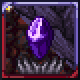
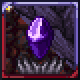
Resprite pylon of night crystal again

diff --git a/Content/Tiles/PylonOfNight.cs b/Content/Tiles/PylonOfNight.cs
@@ -10,7 +10,6 @@ using Terraria.Map;
 using ReLogic.Content;
 using Terraria.Localization;
 using InfectedQualities.Core;
-using InfectedQualities.Content.Extras;
 using InfectedQualities.Content.Items.Placables;
 using InfectedQualities.Content.Tiles.TileEntities;
 
@@ -19,6 +18,7 @@ namespace InfectedQualities.Content.Tiles
     public class PylonOfNight : ModPylon
     {
         private Asset<Texture2D> PylonCrystalTexture { get; set; } = null;
+        private Asset<Texture2D> PylonCrystalHighlightTexture { get; set; } = null;
         private Asset<Texture2D> PylonMapIcon { get; set; } = null;
 
         private static Color PylonColor => new(162, 95, 234);
@@ -44,7 +44,8 @@ namespace InfectedQualities.Content.Tiles
             AddMapEntry(PylonColor, Language.GetText("Mods.InfectedQualities.Items.Placables.PylonOfNightBlock.DisplayName"));
             RegisterItemDrop(ModContent.ItemType<PylonOfNightBlock>());
 
-            PylonCrystalTexture = ModContent.Request<Texture2D>(Texture + "_Crystal");
+            PylonCrystalTexture = ModContent.Request<Texture2D>("InfectedQualities/Content/Extras/Tiles/" + Name + "_Crystal");
+            PylonCrystalHighlightTexture = ModContent.Request<Texture2D>("InfectedQualities/Content/Extras/Tiles/Pylon_CrystalHighlight");
             PylonMapIcon = ModContent.Request<Texture2D>("InfectedQualities/Content/Extras/MapIcons/" + Name + "_MapIcon");
         }
 
@@ -69,7 +70,7 @@ namespace InfectedQualities.Content.Tiles
             b = PylonColor.B / 255f;
         }
 
-        public override void SpecialDraw(int i, int j, SpriteBatch spriteBatch) => DefaultDrawPylonCrystal(spriteBatch, i, j, PylonCrystalTexture, TextureUtilities.PylonCrystalHighlightTexture, new Vector2(0f, -12f), PylonColor * 0.1f, PylonColor, 12, 8);
+        public override void SpecialDraw(int i, int j, SpriteBatch spriteBatch) => DefaultDrawPylonCrystal(spriteBatch, i, j, PylonCrystalTexture, PylonCrystalHighlightTexture, new Vector2(0f, -12f), PylonColor * 0.1f, PylonColor, 12, 8);
 
         public override void DrawMapIcon(ref MapOverlayDrawContext context, ref string mouseOverText, TeleportPylonInfo pylonInfo, bool isNearPylon, Color drawColor, float deselectedScale, float selectedScale)
         {

diff --git a/InfectedQualities.cs b/InfectedQualities.cs
@@ -1,11 +1,9 @@
 using InfectedQualities.Content.Biomes;
-using InfectedQualities.Content.Extras;
 using InfectedQualities.Content.Extras.Tiles;
 using InfectedQualities.Content.Tiles;
 using InfectedQualities.Content.Tiles.Plants;
 using InfectedQualities.Core;
 using Microsoft.Xna.Framework;
-using Microsoft.Xna.Framework.Graphics;
 using System;
 using Terraria;
 using Terraria.ModLoader;
@@ -16,11 +14,6 @@ namespace InfectedQualities
     {
         public override void Load()
         {
-            if (ModContent.GetInstance<InfectedQualitiesServerConfig>().PylonOfNight)
-            {
-                TextureUtilities.PylonCrystalHighlightTexture = ModContent.Request<Texture2D>("InfectedQualities/Content/Extras/Tiles/Pylon_CrystalHighlight");
-            }
-
             foreach (InfectionType infectionType in Enum.GetValues(typeof(InfectionType)))
             {
                 AddContent(new InfectedSnow(infectionType));

diff --git a/Content/Extras/TextureUtilities.cs b/Content/Extras/TextureUtilities.cs
@@ -3,7 +3,6 @@ using InfectedQualities.Content.Extras.Tiles;
 using InfectedQualities.Core;
 using Microsoft.Xna.Framework;
 using Microsoft.Xna.Framework.Graphics;
-using ReLogic.Content;
 using System;
 using Terraria;
 using Terraria.GameContent;
@@ -15,8 +14,6 @@ namespace InfectedQualities.Content.Extras
 {
     public static class TextureUtilities
     {
-        internal static Asset<Texture2D> PylonCrystalHighlightTexture { get; set; } = null;
-
         public static void ReplacePlanteraType(InfectionType infectionType)
         {
             TextureAssets.Npc[NPCID.Plantera] = infectionType switch
